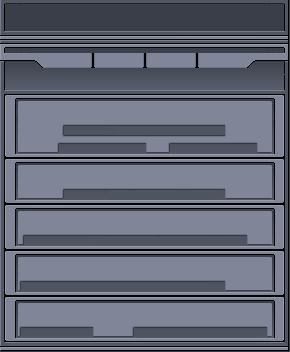
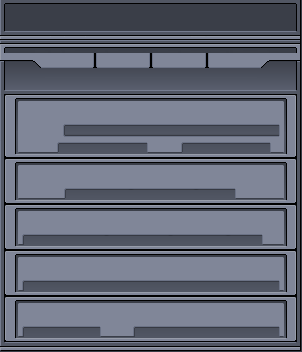
InstrumentEditor: increase width by 12 pixel
what a pain! These pixel-based graphics have definitely were out their welcome!

In order to account for the additional size due to the scroll bar in `ComponentsEditor`, the `InstrumentEditor` pixel graphic was increased to cover 12 additional pixels, all affected widgets have been moved to the corresponding places, and some overall fine tuning of the widget position was done to make everything work with this new width

diff --git a/src/gui/src/InstrumentEditor/InstrumentEditor.cpp b/src/gui/src/InstrumentEditor/InstrumentEditor.cpp
@@ -56,41 +56,44 @@ InstrumentEditor::InstrumentEditor( InstrumentEditorPanel* pPanel )
 	m_pInstrumentProp->move( 0, 0 );
 	m_pInstrumentProp->setPixmap( "/instrumentEditor/instrumentTab.png" );
 
-	m_pNameLbl = new ClickableLabel( m_pInstrumentProp, QSize( 279, 27 ), "",
-									 ClickableLabel::Color::Bright, true );
+	m_pNameLbl = new ClickableLabel(
+		m_pInstrumentProp, QSize( InstrumentRack::nWidth -
+								  InstrumentEditor::nMargin * 2, 27 ), "",
+		ClickableLabel::Color::Bright, true );
 	m_pNameLbl->move( 5, 4 );
 	m_pNameLbl->setScaledContents( true );
 
 	/////////////
 	//Midi Out
 
-	ClickableLabel* pMidiOutLbl = new ClickableLabel( m_pInstrumentProp, QSize( 61, 10 ),
-													  pCommonStrings->getMidiOutLabel() );
-	pMidiOutLbl->move( 22, 281 );
+	ClickableLabel* pMidiOutLbl = new ClickableLabel(
+		m_pInstrumentProp, QSize( 61, 10 ), pCommonStrings->getMidiOutLabel() );
+	pMidiOutLbl->move( 28, 281 );
 
-	m_pMidiOutChannelLCD = new LCDSpinBox( m_pInstrumentProp, QSize( 59, 24 ),
-										   LCDSpinBox::Type::Int, -1, 16,
-										   true, true );
-	m_pMidiOutChannelLCD->move( 98, 257 );
+	m_pMidiOutChannelLCD = new LCDSpinBox(
+		m_pInstrumentProp, QSize( 59, 24 ), LCDSpinBox::Type::Int, -1, 16,
+		true, true );
+	m_pMidiOutChannelLCD->move( 146, 257 );
 	m_pMidiOutChannelLCD->setToolTip(QString(tr("Midi out channel")));
 	connect( m_pMidiOutChannelLCD, SIGNAL( valueChanged( double ) ),
 			 this, SLOT( midiOutChannelChanged( double ) ) );
-	m_pMidiOutChannelLbl = new ClickableLabel( m_pInstrumentProp, QSize( 61, 10 ),
-											   pCommonStrings->getMidiOutChannelLabel() );
-	m_pMidiOutChannelLbl->move( 96, 281 );
+	m_pMidiOutChannelLbl = new ClickableLabel(
+		m_pInstrumentProp, QSize( 61, 10 ),
+		pCommonStrings->getMidiOutChannelLabel() );
+	m_pMidiOutChannelLbl->move( 144, 281 );
 
 	///
-	m_pMidiOutNoteLCD = new LCDSpinBox( m_pInstrumentProp, QSize( 59, 24 ),
-										LCDSpinBox::Type::Int, 0, 127, true );
-	m_pMidiOutNoteLCD->move( 161, 257 );
+	m_pMidiOutNoteLCD = new LCDSpinBox(
+		m_pInstrumentProp, QSize( 59, 24 ), LCDSpinBox::Type::Int, 0, 127, true );
+	m_pMidiOutNoteLCD->move( 210, 257 );
 	m_pMidiOutNoteLCD->setToolTip(QString(tr("Midi out note")));
 	connect( m_pMidiOutNoteLCD, &LCDSpinBox::valueAdjusted, [&]() {
 		m_pInstrumentEditorPanel->getInstrument()->setMidiOutNote(
 			static_cast<int>(m_pMidiOutNoteLCD->value()) );
 	});
-	m_pMidiOutNoteLbl = new ClickableLabel( m_pInstrumentProp, QSize( 61, 10 ),
-											pCommonStrings->getMidiOutNoteLabel() );
-	m_pMidiOutNoteLbl->move( 159, 281 );
+	m_pMidiOutNoteLbl = new ClickableLabel(
+		m_pInstrumentProp, QSize( 61, 10 ), pCommonStrings->getMidiOutNoteLabel() );
+	m_pMidiOutNoteLbl->move( 208, 281 );
 
 	/////////////
 
@@ -103,17 +106,18 @@ InstrumentEditor::InstrumentEditor( InstrumentEditorPanel* pPanel )
 				pSong->getDrumkit()->getInstruments()->index( pInstrument ) );}
 	} );
 
-	m_pPitchLCD = new LCDDisplay( m_pInstrumentProp, QSize( 56, 20 ), false, false );
-	m_pPitchLCD->move( 24, 213 );
-	m_pPitchLbl = new ClickableLabel( m_pInstrumentProp, QSize( 54, 10 ),
-									  pCommonStrings->getPitchLabel() );
-	m_pPitchLbl->move( 25, 235 );
+	m_pPitchLCD = new LCDDisplay(
+		m_pInstrumentProp, QSize( 56, 22 ), false, false );
+	m_pPitchLCD->move( 33, 212 );
+	m_pPitchLbl = new ClickableLabel(
+		m_pInstrumentProp, QSize( 54, 10 ), pCommonStrings->getPitchLabel() );
+	m_pPitchLbl->move( 34, 235 );
 	
 	m_pPitchCoarseRotary = new Rotary(
 		m_pInstrumentProp, Rotary::Type::Center, tr( "Pitch offset (Coarse)" ),
 		true, Instrument::fPitchMin + InstrumentEditorPanel::nPitchFineControl,
 		Instrument::fPitchMax - InstrumentEditorPanel::nPitchFineControl );
-	m_pPitchCoarseRotary->move( 84, 210 );
+	m_pPitchCoarseRotary->move( 94, 210 );
 	connect( m_pPitchCoarseRotary, &Rotary::valueChanged, [&]() {
 		//round fVal, since Coarse is the integer number of half steps
 		const float fNewPitch = round( m_pPitchCoarseRotary->getValue() ) +
@@ -121,16 +125,16 @@ InstrumentEditor::InstrumentEditor( InstrumentEditorPanel* pPanel )
 		m_pInstrumentEditorPanel->getInstrument()->setPitchOffset( fNewPitch );
 		updateEditor(); // LCD update
 	});
-	m_pPitchCoarseLbl = new ClickableLabel( m_pInstrumentProp, QSize( 48, 10 ),
-											pCommonStrings->getPitchCoarseLabel() );
-	m_pPitchCoarseLbl->move( 82, 235 );
+	m_pPitchCoarseLbl = new ClickableLabel(
+		m_pInstrumentProp, QSize( 48, 10 ), pCommonStrings->getPitchCoarseLabel() );
+	m_pPitchCoarseLbl->move( 92, 235 );
 
 	m_pPitchFineRotary = new Rotary(
 		m_pInstrumentProp, Rotary::Type::Center, tr( "Pitch offset (Fine)" ),
 		false, -InstrumentEditorPanel::nPitchFineControl,
 		InstrumentEditorPanel::nPitchFineControl );
 	//it will have resolution of 100 steps between Min and Max => quantum delta = 0.01
-	m_pPitchFineRotary->move( 138, 210 );
+	m_pPitchFineRotary->move( 151, 210 );
 	connect( m_pPitchFineRotary, &Rotary::valueChanged, [&]() {
 		//round fVal, since Coarse is the integer number of half steps
 		const float fNewPitch = round( m_pPitchCoarseRotary->getValue() ) +
@@ -138,133 +142,141 @@ InstrumentEditor::InstrumentEditor( InstrumentEditorPanel* pPanel )
 		m_pInstrumentEditorPanel->getInstrument()->setPitchOffset( fNewPitch );
 		updateEditor(); // LCD update
 	});
-	m_pPitchFineLbl = new ClickableLabel( m_pInstrumentProp, QSize( 48, 10 ),
-										  pCommonStrings->getPitchFineLabel() );
-	m_pPitchFineLbl->move( 136, 235 );
+	m_pPitchFineLbl = new ClickableLabel(
+		m_pInstrumentProp, QSize( 48, 10 ), pCommonStrings->getPitchFineLabel() );
+	m_pPitchFineLbl->move( 149, 235 );
 
-	
-
-	m_pRandomPitchRotary = new Rotary( m_pInstrumentProp, Rotary::Type::Normal,
-									   tr( "Random pitch factor" ), false );
-	m_pRandomPitchRotary->move( 194, 210 );
+	m_pRandomPitchRotary = new Rotary(
+		m_pInstrumentProp, Rotary::Type::Normal, tr( "Random pitch factor" ),
+		false );
+	m_pRandomPitchRotary->move( 208, 210 );
 	connect( m_pRandomPitchRotary, &Rotary::valueChanged, [&]() {
 		m_pInstrumentEditorPanel->getInstrument()->setRandomPitchFactor(
 			m_pRandomPitchRotary->getValue() );
 	});
-	m_pPitchRandomLbl = new ClickableLabel( m_pInstrumentProp, QSize( 48, 10 ),
-											pCommonStrings->getPitchRandomLabel() );
-	m_pPitchRandomLbl->move( 192, 235 );
+	m_pPitchRandomLbl = new ClickableLabel(
+		m_pInstrumentProp, QSize( 48, 10 ), pCommonStrings->getPitchRandomLabel() );
+	m_pPitchRandomLbl->move( 205, 235 );
 
 	// Filter
-	m_pFilterBypassBtn = new Button( m_pInstrumentProp, QSize( 36, 15 ), Button::Type::Toggle,
-									 "", pCommonStrings->getBypassButton(), true,
-									 QSize( 0, 0 ), "", false, true );
+	m_pFilterBypassBtn = new Button(
+		m_pInstrumentProp, QSize( 36, 15 ), Button::Type::Toggle, "",
+		pCommonStrings->getBypassButton(), true, QSize( 0, 0 ), "", false, true );
 	connect( m_pFilterBypassBtn, &Button::clicked, [&]() {
 		m_pInstrumentEditorPanel->getInstrument()->setFilterActive(
 			! m_pFilterBypassBtn->isChecked() );
 	});
-	m_pFilterBypassBtn->move( 67, 169 );
+	m_pFilterBypassBtn->move( 75, 169 );
 
-	m_pCutoffRotary = new Rotary( m_pInstrumentProp, Rotary::Type::Normal,
-								  tr( "Filter Cutoff" ), false );
+	m_pCutoffRotary = new Rotary(
+		m_pInstrumentProp, Rotary::Type::Normal, tr( "Filter Cutoff" ), false );
 	m_pCutoffRotary->setDefaultValue( m_pCutoffRotary->getMax() );
+	m_pCutoffRotary->move( 124, 164 );
 	connect( m_pCutoffRotary, &Rotary::valueChanged, [&]() {
 		m_pInstrumentEditorPanel->getInstrument()->setFilterCutoff(
 			m_pCutoffRotary->getValue() );
 	});
-	m_pCutoffLbl = new ClickableLabel( m_pInstrumentProp, QSize( 48, 10 ),
-									   pCommonStrings->getCutoffLabel() );
-	m_pCutoffLbl->move( 107, 189 );
+	m_pCutoffLbl = new ClickableLabel(
+		m_pInstrumentProp, QSize( 48, 10 ), pCommonStrings->getCutoffLabel() );
+	m_pCutoffLbl->move( 122, 189 );
 
-	m_pResonanceRotary = new Rotary( m_pInstrumentProp, Rotary::Type::Normal,
-									 tr( "Filter resonance" ), false );
+	m_pResonanceRotary = new Rotary(
+		m_pInstrumentProp, Rotary::Type::Normal, tr( "Filter resonance" ), false );
 	connect( m_pResonanceRotary, &Rotary::valueChanged, [&]() {
 		m_pInstrumentEditorPanel->getInstrument()->setFilterResonance(
 			std::min( 0.95f, m_pResonanceRotary->getValue() ) );
 	});
 	m_pResonanceLbl = new ClickableLabel( m_pInstrumentProp, QSize( 56, 10 ),
 										  pCommonStrings->getResonanceLabel() );
-	m_pResonanceLbl->move( 157, 189 );
+	m_pResonanceLbl->move( 175, 189 );
 
-	m_pCutoffRotary->move( 109, 164 );
-	m_pResonanceRotary->move( 163, 164 );
+	m_pResonanceRotary->move( 181, 164 );
 	// ~ Filter
 
 	// ADSR
-	m_pAttackRotary = new Rotary( m_pInstrumentProp, Rotary::Type::Normal,
-								  tr( "Length of Attack phase.\n\nValue" ), false );
+	m_pAttackRotary = new Rotary(
+		m_pInstrumentProp, Rotary::Type::Normal,
+		tr( "Length of Attack phase.\n\nValue" ), false );
+	m_pAttackRotary->move( 45, 52 );
 	connect( m_pAttackRotary, &Rotary::valueChanged, [&]() {
 		m_pInstrumentEditorPanel->getInstrument()->getAdsr()->setAttack(
 			100000 * m_pAttackRotary->getValue() * m_pAttackRotary->getValue() );
 	});
-	m_pDecayRotary = new Rotary( m_pInstrumentProp, Rotary::Type::Normal,
-								 tr( "Length of Decay phase.\n\nValue" ), false );
+	m_pAttackLbl = new ClickableLabel( m_pInstrumentProp, QSize( 48, 10 ),
+									   pCommonStrings->getAttackLabel() );
+	m_pAttackLbl->move( 43, 78 );
+
+	m_pDecayRotary = new Rotary(
+		m_pInstrumentProp, Rotary::Type::Normal,
+		tr( "Length of Decay phase.\n\nValue" ), false );
+	m_pDecayRotary->move( 101, 52 );
 	connect( m_pDecayRotary, &Rotary::valueChanged, [&]() {
 		m_pInstrumentEditorPanel->getInstrument()->getAdsr()->setDecay(
 			100000 * m_pDecayRotary->getValue() * m_pDecayRotary->getValue() );
 	});
-	m_pSustainRotary = new Rotary( m_pInstrumentProp, Rotary::Type::Normal,
-								   tr( "Sample volume in Sustain phase.\n\nValue" ), false );
+	m_pDecayLbl = new ClickableLabel( m_pInstrumentProp, QSize( 48, 10 ),
+									  pCommonStrings->getDecayLabel() );
+	m_pDecayLbl->move( 99, 78 );
+
+	m_pSustainRotary = new Rotary(
+		m_pInstrumentProp, Rotary::Type::Normal,
+		tr( "Sample volume in Sustain phase.\n\nValue" ), false );
 	m_pSustainRotary->setDefaultValue( m_pSustainRotary->getMax() );
+	m_pSustainRotary->move( 157, 52 );
 	connect( m_pSustainRotary, &Rotary::valueChanged, [&]() {
 		m_pInstrumentEditorPanel->getInstrument()->getAdsr()->setSustain(
 			m_pSustainRotary->getValue() );
 	});
-	m_pReleaseRotary = new Rotary( m_pInstrumentProp, Rotary::Type::Normal,
-								   tr( "Length of Release phase.\n\nValue" ), false );
+	m_pSustainLbl = new ClickableLabel( m_pInstrumentProp, QSize( 48, 10 ),
+										pCommonStrings->getSustainLabel() );
+	m_pSustainLbl->move( 155, 78 );
+
+	m_pReleaseRotary = new Rotary(
+		m_pInstrumentProp, Rotary::Type::Normal,
+		tr( "Length of Release phase.\n\nValue" ), false );
 	m_pReleaseRotary->setDefaultValue( 0.09 );
+	m_pReleaseRotary->move( 213, 52 );
 	connect( m_pReleaseRotary, &Rotary::valueChanged, [&]() {
 		m_pInstrumentEditorPanel->getInstrument()->getAdsr()->setRelease(
 			256.0 +
 			100000 * m_pReleaseRotary->getValue() * m_pReleaseRotary->getValue() );
 	});
-	m_pAttackRotary->move( 45, 52 );
-	m_pDecayRotary->move( 97, 52 );
-	m_pSustainRotary->move( 149, 52 );
-	m_pReleaseRotary->move( 201, 52 );
-
-	m_pAttackLbl = new ClickableLabel( m_pInstrumentProp, QSize( 48, 10 ),
-									   pCommonStrings->getAttackLabel() );
-	m_pAttackLbl->move( 43, 78 );
-	m_pDecayLbl = new ClickableLabel( m_pInstrumentProp, QSize( 48, 10 ),
-									  pCommonStrings->getDecayLabel() );
-	m_pDecayLbl->move( 95, 78 );
-	m_pSustainLbl = new ClickableLabel( m_pInstrumentProp, QSize( 48, 10 ),
-										pCommonStrings->getSustainLabel() );
-	m_pSustainLbl->move( 147, 78 );
 	m_pReleaseLbl = new ClickableLabel( m_pInstrumentProp, QSize( 48, 10 ),
 										pCommonStrings->getReleaseLabel() );
-	m_pReleaseLbl->move( 199, 78 );
+	m_pReleaseLbl->move( 211, 78 );
 	// ~ ADSR
 
 	// instrument gain
-	m_pInstrumentGainLCD = new LCDDisplay( m_pInstrumentProp, QSize( 43, 20 ), false, false );
-	m_pInstrumentGain = new Rotary( m_pInstrumentProp, Rotary::Type::Normal,
-									tr( "Instrument gain" ), false, 0.0, 5.0 );
+	m_pInstrumentGainLCD = new LCDDisplay(
+		m_pInstrumentProp, QSize( 43, 22 ), false, false );
+	m_pInstrumentGainLCD->move( 73, 102 );
+
+	m_pInstrumentGain = new Rotary(
+		m_pInstrumentProp, Rotary::Type::Normal, tr( "Instrument gain" ), false,
+		0.0, 5.0 );
 	m_pInstrumentGain->setDefaultValue( 1.0 );
+	m_pInstrumentGain->move( 122, 100 );
 	connect( m_pInstrumentGain, &Rotary::valueChanged, [&]() {
 		m_pInstrumentEditorPanel->getInstrument()->setGain(
 			m_pInstrumentGain->getValue() );
 		updateEditor(); // LCD update
 	});
-	m_pInstrumentGainLCD->move( 62, 103 );
-	m_pInstrumentGain->move( 109, 100 );
 	m_pGainLbl = new ClickableLabel( m_pInstrumentProp, QSize( 48, 10 ),
 									 pCommonStrings->getGainLabel() );
-	m_pGainLbl->move( 107, 125 );
+	m_pGainLbl->move( 120, 125 );
 
 
 	m_pMuteGroupLCD = new LCDSpinBox( m_pInstrumentProp, QSize( 59, 24 ),
 									  LCDSpinBox::Type::Int, -1, 100,
 									  true, true );
-	m_pMuteGroupLCD->move( 160, 101 );
+	m_pMuteGroupLCD->move( 210, 101 );
 	connect( m_pMuteGroupLCD, &LCDSpinBox::valueAdjusted, [&]() {
 		m_pInstrumentEditorPanel->getInstrument()->setMuteGroup(
 			static_cast<int>(m_pMuteGroupLCD->value()) );
 	});
 	m_pMuteGroupLbl = new ClickableLabel( m_pInstrumentProp, QSize( 61, 10 ),
 										  pCommonStrings->getMuteGroupLabel() );
-	m_pMuteGroupLbl->move( 159, 125 );
+	m_pMuteGroupLbl->move( 209, 125 );
 
 	m_pIsStopNoteCheckBox = new QCheckBox( "", m_pInstrumentProp );
 	m_pIsStopNoteCheckBox->move( 42, 139 );
@@ -282,7 +294,7 @@ InstrumentEditor::InstrumentEditor( InstrumentEditorPanel* pPanel )
 	m_pIsStopNoteLbl->move( 59, 144 );
 
 	m_pApplyVelocity = new QCheckBox( "", m_pInstrumentProp );
-	m_pApplyVelocity->move( 153, 139 );
+	m_pApplyVelocity->move( 166, 139 );
 	m_pApplyVelocity->adjustSize();
 	m_pApplyVelocity->setFixedSize( 14, 14 );
 	m_pApplyVelocity->setToolTip( tr( "Don't change the layers' gain based on velocity" ) );
@@ -294,7 +306,7 @@ InstrumentEditor::InstrumentEditor( InstrumentEditorPanel* pPanel )
 	});
 	m_pApplyVelocityLbl = new ClickableLabel( m_pInstrumentProp, QSize( 87, 10 ),
 											  pCommonStrings->getApplyVelocityLabel() );
-	m_pApplyVelocityLbl->move( 170, 144 );
+	m_pApplyVelocityLbl->move( 184, 144 );
 
 	//////////////////////////
 	// HiHat setup
@@ -302,18 +314,18 @@ InstrumentEditor::InstrumentEditor( InstrumentEditorPanel* pPanel )
 	m_pHihatGroupLCD = new LCDSpinBox( m_pInstrumentProp, QSize( 59, 24 ),
 									   LCDSpinBox::Type::Int, -1, 32,
 									   true, true );
-	m_pHihatGroupLCD->move( 28, 303 );
+	m_pHihatGroupLCD->move( 33, 303 );
 	connect( m_pHihatGroupLCD, &LCDSpinBox::valueAdjusted, [&]() {
 		m_pInstrumentEditorPanel->getInstrument()->setHihatGrp(
 			static_cast<int>(m_pHihatGroupLCD->value()) );
 	});
 	m_pHihatGroupLbl = new ClickableLabel( m_pInstrumentProp, QSize( 69, 10 ),
 										   pCommonStrings->getHihatGroupLabel() );
-	m_pHihatGroupLbl->move( 22, 327 );
+	m_pHihatGroupLbl->move( 28, 327 );
 
 	m_pHihatMinRangeLCD = new LCDSpinBox( m_pInstrumentProp, QSize( 59, 24 ),
 										  LCDSpinBox::Type::Int, 0, 127, true );
-	m_pHihatMinRangeLCD->move( 138, 303 );
+	m_pHihatMinRangeLCD->move( 146, 303 );
 	connect( m_pHihatMinRangeLCD, &LCDSpinBox::valueAdjusted, [&]() {
 		m_pInstrumentEditorPanel->getInstrument()->setLowerCc(
 			static_cast<int>(m_pHihatMinRangeLCD->value()) );
@@ -322,11 +334,11 @@ InstrumentEditor::InstrumentEditor( InstrumentEditorPanel* pPanel )
 	});
 	m_pHihatMinRangeLbl = new ClickableLabel( m_pInstrumentProp, QSize( 61, 10 ),
 											  pCommonStrings->getHihatMinRangeLabel() );
-	m_pHihatMinRangeLbl->move( 136, 327 );
+	m_pHihatMinRangeLbl->move( 144, 327 );
 
 	m_pHihatMaxRangeLCD = new LCDSpinBox( m_pInstrumentProp, QSize( 59, 24 ),
 										  LCDSpinBox::Type::Int, 0, 127, true );
-	m_pHihatMaxRangeLCD->move( 203, 303 );
+	m_pHihatMaxRangeLCD->move( 210, 303 );
 	connect( m_pHihatMaxRangeLCD, &LCDSpinBox::valueAdjusted, [&]() {
 		m_pInstrumentEditorPanel->getInstrument()->setHigherCc(
 			static_cast<int>(m_pHihatMaxRangeLCD->value()) );
@@ -335,7 +347,7 @@ InstrumentEditor::InstrumentEditor( InstrumentEditorPanel* pPanel )
 	});
 	m_pHihatMaxRangeLbl = new ClickableLabel( m_pInstrumentProp, QSize( 61, 10 ),
 											  pCommonStrings->getHihatMaxRangeLabel() );
-	m_pHihatMaxRangeLbl->move( 201, 327 );
+	m_pHihatMaxRangeLbl->move( 208, 327 );
 
 	updateEditor();
 }

diff --git a/src/gui/src/InstrumentEditor/InstrumentEditor.h b/src/gui/src/InstrumentEditor/InstrumentEditor.h
@@ -52,6 +52,8 @@ class InstrumentEditor :  public QWidget,
 	Q_OBJECT
 
 	public:
+		static constexpr int nMargin = 5;
+
 		explicit InstrumentEditor( InstrumentEditorPanel* pPanel );
 		~InstrumentEditor();
 
